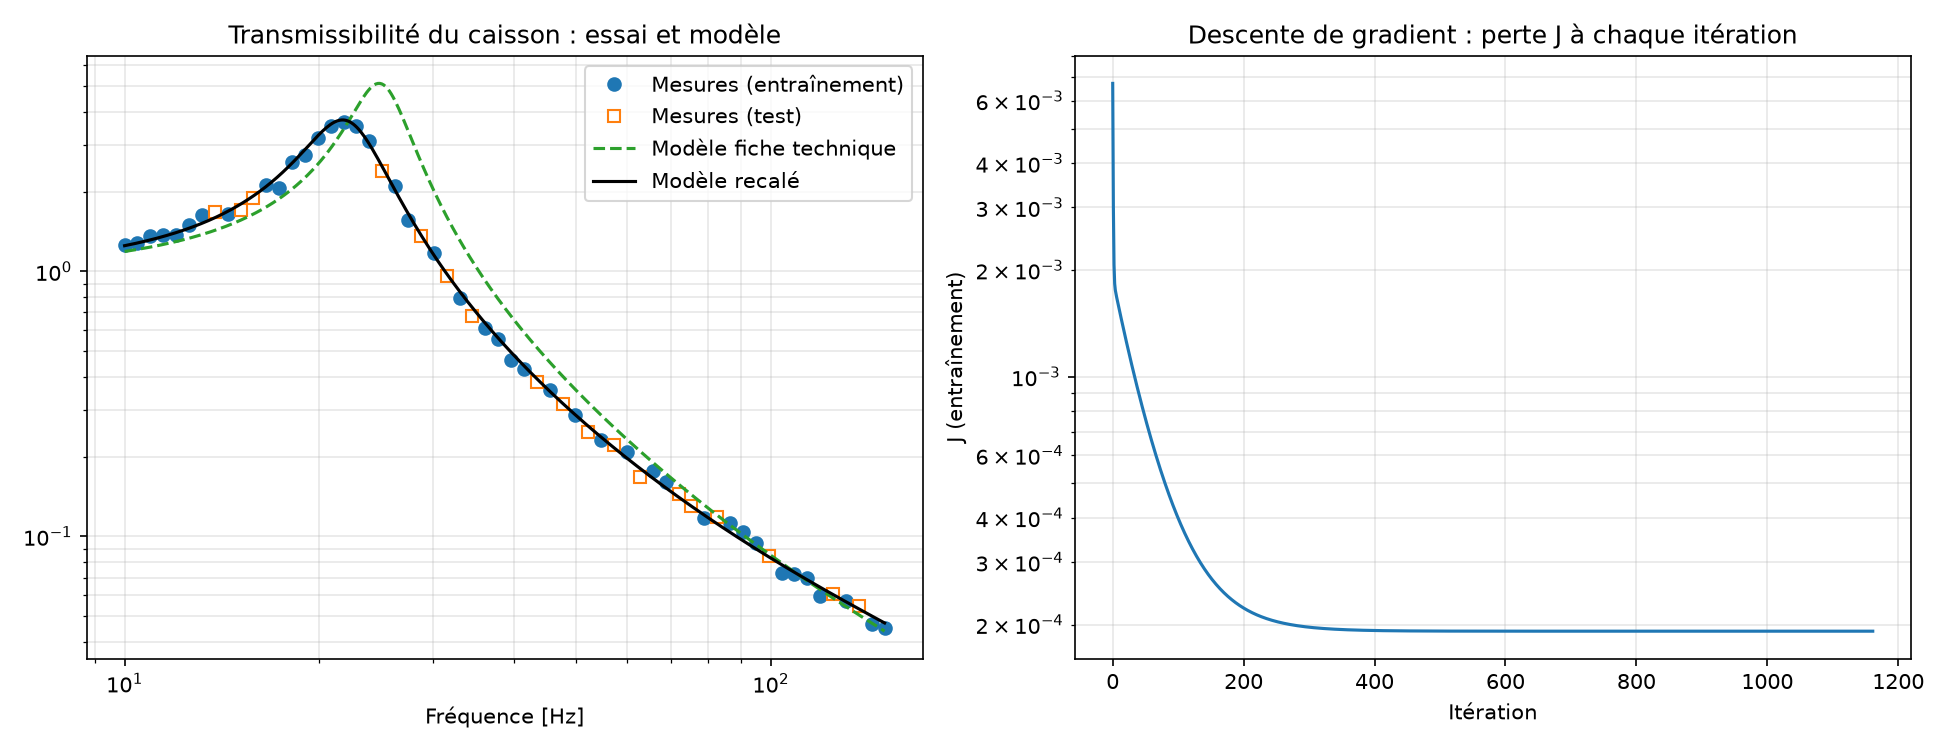
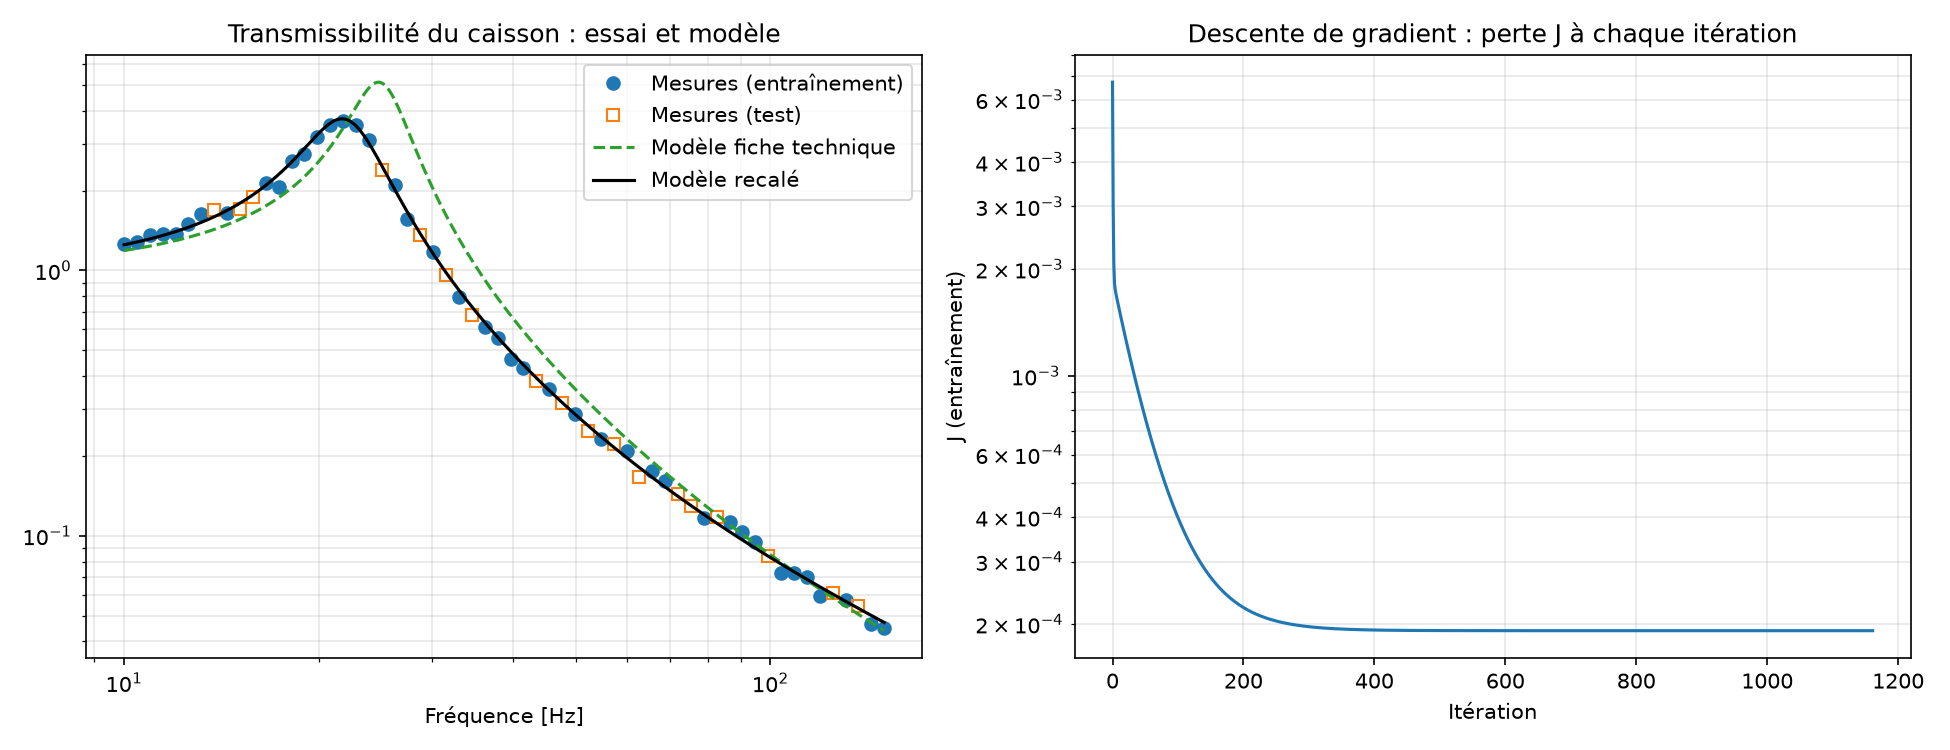
Ajoute la visualisation 3D animée (curseur de fréquence)
- visualisation_3d.py : base, silentblocs, caisson et carte animés avec les
  amplitudes et retards de maquette.py ; curseur 5-300 Hz ; fenêtre Qt dans Spyder.
- Aperçus GIF à 25, 60 et 200 Hz dans resultats/.
- README : section visualisation 3D.

diff --git a/visualisation_3d.py b/visualisation_3d.py
@@ -1,0 +1,129 @@
+"""Visualisation 3D animée de la maquette : base, silentblocs, caisson et carte.
+
+La base est secouée par un sinus à la fréquence choisie avec le curseur.
+Chaque pièce bouge avec l'amplitude et le retard calculés par maquette.py
+(transmissibilité complexe T) :
+  - vers 25 Hz  : le caisson rebondit sur ses silentblocs (résonance, il bouge plus que la base) ;
+  - vers 60 Hz  : les silentblocs isolent (le caisson bouge beaucoup moins que la base) ;
+  - vers 200 Hz : le caisson est presque immobile, mais la carte vibre (résonance de la carte).
+
+Les déplacements sont fortement AGRANDIS et ralentis pour être visibles.
+
+Dans Spyder : F5. L'animation s'ouvre dans une fenêtre séparée (il faut PyQt6 dans .venv).
+"""
+
+import matplotlib.pyplot as plt
+import numpy as np
+from matplotlib.animation import FuncAnimation
+from matplotlib.widgets import Slider
+from mpl_toolkits.mplot3d.art3d import Poly3DCollection
+
+from maquette import CAISSON, CARTE, calculer_reponse
+
+try:  # dans Spyder (IPython) : fenêtre séparée, sinon l'animation reste figée dans le panneau Graphiques
+    get_ipython().run_line_magic("matplotlib", "qt")  # noqa: F821
+except NameError:
+    pass
+
+AMPLITUDE_BASE = 0.25  # amplitude affichée du mouvement de la base (unité du dessin, agrandie)
+AGRANDISSEMENT_CARTE = 3.0  # la flexion de la carte est en plus agrandie x3 pour être visible
+NB_IMAGES_PAR_PERIODE = 40  # ralenti : une période d'oscillation = 40 images
+FREQUENCE_INITIALE_HZ = 25.0
+
+# Géométrie du dessin (unités arbitraires)
+LARGEUR, PROFONDEUR = 4.0, 3.0  # caisson
+HAUTEUR_CAISSON = 2.0
+HAUTEUR_SILENTBLOCS = 1.0
+HAUTEUR_CARTE = 0.8  # hauteur de la carte au-dessus du fond du caisson
+
+
+def calculer_transmissibilites(frequence_Hz: float) -> tuple[complex, complex]:
+    """transmissibilité complexe (amplitude et retard) du caisson et de la carte à une fréquence"""
+    frequences = np.array([frequence_Hz])
+    resultat = calculer_reponse(CAISSON, CARTE, frequences, np.zeros(1))
+    return resultat.transmissibilite[0, 0], resultat.transmissibilite[0, 1]
+
+
+def dessiner_boite(axe, x0, x1, y0, y1, z0, z1, couleur, transparence) -> None:
+    """parallélépipède défini par ses coins"""
+    coins = np.array([[x0, y0, z0], [x1, y0, z0], [x1, y1, z0], [x0, y1, z0],
+                      [x0, y0, z1], [x1, y0, z1], [x1, y1, z1], [x0, y1, z1]])
+    faces = [[0, 1, 2, 3], [4, 5, 6, 7], [0, 1, 5, 4], [2, 3, 7, 6], [1, 2, 6, 5], [0, 3, 7, 4]]
+    axe.add_collection3d(Poly3DCollection([coins[face] for face in faces], facecolor=couleur,
+                                          edgecolor="k", linewidth=0.5, alpha=transparence))
+
+
+def dessiner_ressort(axe, x, y, z_bas, z_haut) -> None:
+    """silentbloc dessiné comme un ressort hélicoïdal entre z_bas et z_haut"""
+    angle = np.linspace(0, 8 * 2 * np.pi, 200)  # 8 spires
+    rayon = 0.22
+    axe.plot(x + rayon * np.cos(angle), y + rayon * np.sin(angle), np.linspace(z_bas, z_haut, angle.size),
+             color="tab:orange", linewidth=2.5)
+
+
+def dessiner_scene(axe, phase: float, frequence_Hz: float) -> None:
+    """dessine toutes les pièces à un instant donné (phase = ω t)"""
+    transmissibilite_caisson, transmissibilite_carte = calculer_transmissibilites(frequence_Hz)
+    oscillation = np.exp(1j * phase)
+    # déplacement vertical de chaque pièce = partie réelle de (amplitude complexe × e^{iωt})
+    deplacement_base = AMPLITUDE_BASE * np.cos(phase)
+    deplacement_caisson = AMPLITUDE_BASE * (transmissibilite_caisson * oscillation).real
+    deplacement_carte = AMPLITUDE_BASE * (transmissibilite_carte * oscillation).real
+
+    axe.cla()
+    # base (le porteur)
+    dessiner_boite(axe, -0.5, LARGEUR + 0.5, -0.5, PROFONDEUR + 0.5,
+                   deplacement_base - 0.2, deplacement_base, "grey", 0.35)
+    # 4 silentblocs aux coins
+    fond_caisson = HAUTEUR_SILENTBLOCS + deplacement_caisson
+    for x, y in [(0.3, 0.3), (LARGEUR - 0.3, 0.3), (0.3, PROFONDEUR - 0.3), (LARGEUR - 0.3, PROFONDEUR - 0.3)]:
+        dessiner_ressort(axe, x, y, deplacement_base, fond_caisson)
+    # caisson transparent
+    dessiner_boite(axe, 0, LARGEUR, 0, PROFONDEUR, fond_caisson, fond_caisson + HAUTEUR_CAISSON, "tab:blue", 0.12)
+
+    # carte : bords fixés au caisson, centre qui bouge avec la masse "carte" -> forme de cuvette
+    u, v = np.meshgrid(np.linspace(0, 1, 12), np.linspace(0, 1, 12))
+    forme = np.sin(np.pi * u) * np.sin(np.pi * v)  # 0 sur les bords, 1 au centre
+    hauteur_bords = fond_caisson + HAUTEUR_CARTE
+    flexion = AGRANDISSEMENT_CARTE * (deplacement_carte - deplacement_caisson)  # centre par rapport aux bords
+    axe.plot_surface(0.5 + u * (LARGEUR - 1), 0.5 + v * (PROFONDEUR - 1), hauteur_bords + flexion * forme,
+                     color="tab:green", alpha=0.9)
+
+    axe.set(xlim=(-0.5, LARGEUR + 0.5), ylim=(-0.5, PROFONDEUR + 0.5), zlim=(-0.6, 4.2))
+    axe.set_box_aspect((LARGEUR + 1, PROFONDEUR + 1, 4.8))
+    axe.view_init(elev=12, azim=-60)  # vue presque de côté pour bien voir le mouvement vertical
+    axe.set_axis_off()
+    axe.set_title(f"Excitation {frequence_Hz:.0f} Hz   |   amplitude / base : caisson x{abs(transmissibilite_caisson):.2f},"
+                  f" carte x{abs(transmissibilite_carte):.2f}\n(déplacements agrandis et ralentis,"
+                  f" flexion de la carte x{AGRANDISSEMENT_CARTE:.0f} en plus)")
+
+
+def main() -> None:
+    figure = plt.figure(figsize=(9, 8))
+    axe = figure.add_subplot(projection="3d")
+    figure.subplots_adjust(bottom=0.12)
+    curseur = Slider(figure.add_axes([0.2, 0.04, 0.6, 0.03]), "Fréquence [Hz]", 5, 300,
+                     valinit=FREQUENCE_INITIALE_HZ)
+
+    def mettre_a_jour(numero_image: int) -> None:
+        phase = 2 * np.pi * numero_image / NB_IMAGES_PAR_PERIODE
+        dessiner_scene(axe, phase, curseur.val)
+
+    # garder une référence à l'animation, sinon Python l'efface et elle s'arrête
+    figure.animation = FuncAnimation(figure, mettre_a_jour, frames=NB_IMAGES_PAR_PERIODE, interval=50)
+    plt.show()
+
+
+def enregistrer_gif(frequence_Hz: float, chemin: str) -> None:
+    """enregistre une période d'animation en GIF (pour le README)"""
+    figure = plt.figure(figsize=(7, 6.5))
+    axe = figure.add_subplot(projection="3d")
+    animation = FuncAnimation(figure, lambda numero: dessiner_scene(axe, 2 * np.pi * numero / NB_IMAGES_PAR_PERIODE,
+                                                                     frequence_Hz),
+                              frames=NB_IMAGES_PAR_PERIODE)
+    animation.save(chemin, writer="pillow", fps=20)
+    plt.close(figure)
+
+
+if __name__ == "__main__":
+    main()

diff --git a/README.md b/README.md
@@ -18,6 +18,7 @@ Un caisson électronique posé sur des **silentblocs**, avec une **carte électr
 |---|---|
 | `maquette.py` | Tout le modèle Python. Les données sont en haut du fichier. |
 | `recalage.py` | Recale le modèle sur un essai au pot vibrant par descente de gradient (essai simulé). |
+| `visualisation_3d.py` | Animation 3D du caisson, des silentblocs et de la carte, avec un curseur de fréquence. |
 | `maquette.cpp` | Le même calcul que `maquette.py` en C++, pour montrer les bases du C++. |
 | `resultats/` | Les sorties, recréées à chaque lancement. |
 
@@ -98,6 +99,24 @@ Il garde ensuite le **pire cas**.
 | Débattement 3σ | 1,71 mm pour un jeu de 5 mm (MS = +1,93) |
 | Carte 3σ | 0,029 mm pour 0,563 mm admissibles (MS = +18,4) |
 | Pire cas | amortissement faible (5 %) : MS = +0,98, toujours conforme |
+
+## Visualisation 3D (`visualisation_3d.py`)
+
+Dans Spyder, ouvre `visualisation_3d.py`, puis appuie sur **F5**. Une fenêtre séparée s'ouvre : la base vibre, les 4 silentblocs (ressorts orange) se déforment, le caisson monte et descend, et la carte (en vert) fléchit en cuvette. Le **curseur** en bas de la fenêtre change la fréquence d'excitation, de 5 à 300 Hz. Tu peux aussi faire tourner la vue à la souris.
+
+| Fréquence | Ce qu'on voit |
+|---|---|
+| ~25 Hz | Résonance de la suspension : le caisson bouge 5 fois plus que la base |
+| ~60 Hz | Isolation : le caisson bouge beaucoup moins que la base |
+| ~200 Hz | Le caisson est presque immobile, mais la carte vibre (sa propre résonance) |
+
+Les amplitudes et les retards viennent du calcul de `maquette.py`. Les déplacements sont agrandis et ralentis pour être visibles, et la flexion de la carte est agrandie trois fois de plus.
+
+L'animation a besoin de PyQt6 dans `.venv` (déjà installé). Si la fenêtre reste figée, va dans *Outils → Préférences → Console IPython → Graphiques → Sortie graphique* et choisis **Automatique**.
+
+Aperçus enregistrés : `resultats/animation_25Hz.gif`, `animation_60Hz.gif` et `animation_200Hz.gif`.
+
+![Résonance de la suspension à 25 Hz](resultats/animation_25Hz.gif)
 
 ## Recalage modèle-essai (`recalage.py`)
 
